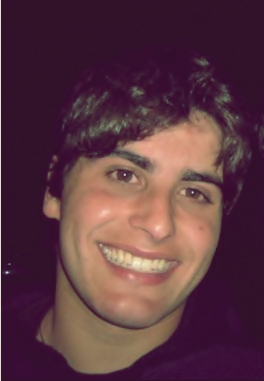
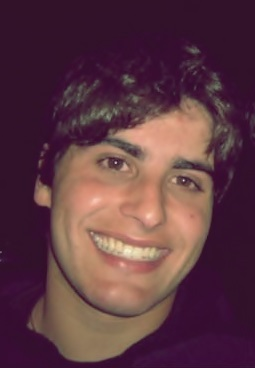
atualização de imagem

diff --git a/index.html b/index.html
@@ -24,7 +24,7 @@
                 <h2>Deixe a sua comunidade segura de um jeito fácil</h2>
                 <button>Me adicione</button>
             </div>
-            <img src="balle-bot.jpeg" alt="Imagem da Balle Bot">
+            <img src="balle-bot.JPG" alt="Imagem da Balle Bot">
         </section>
         <section class="secundario">
             <h3>O que ela faz por você?</h3>

diff --git a/style.css b/style.css
@@ -99,7 +99,11 @@ body {
 }
 
 .conteudo img {
-    height: 430px;
+    margin-top: 20px;
+    height: 400px;
+    border-radius: 25%;
+    border: 2px solid #8E5D52;
+    box-shadow: 5px 5px 15px rgba(0, 0, 0, 0.425);
 }
 
 .conteudo .secundario {
